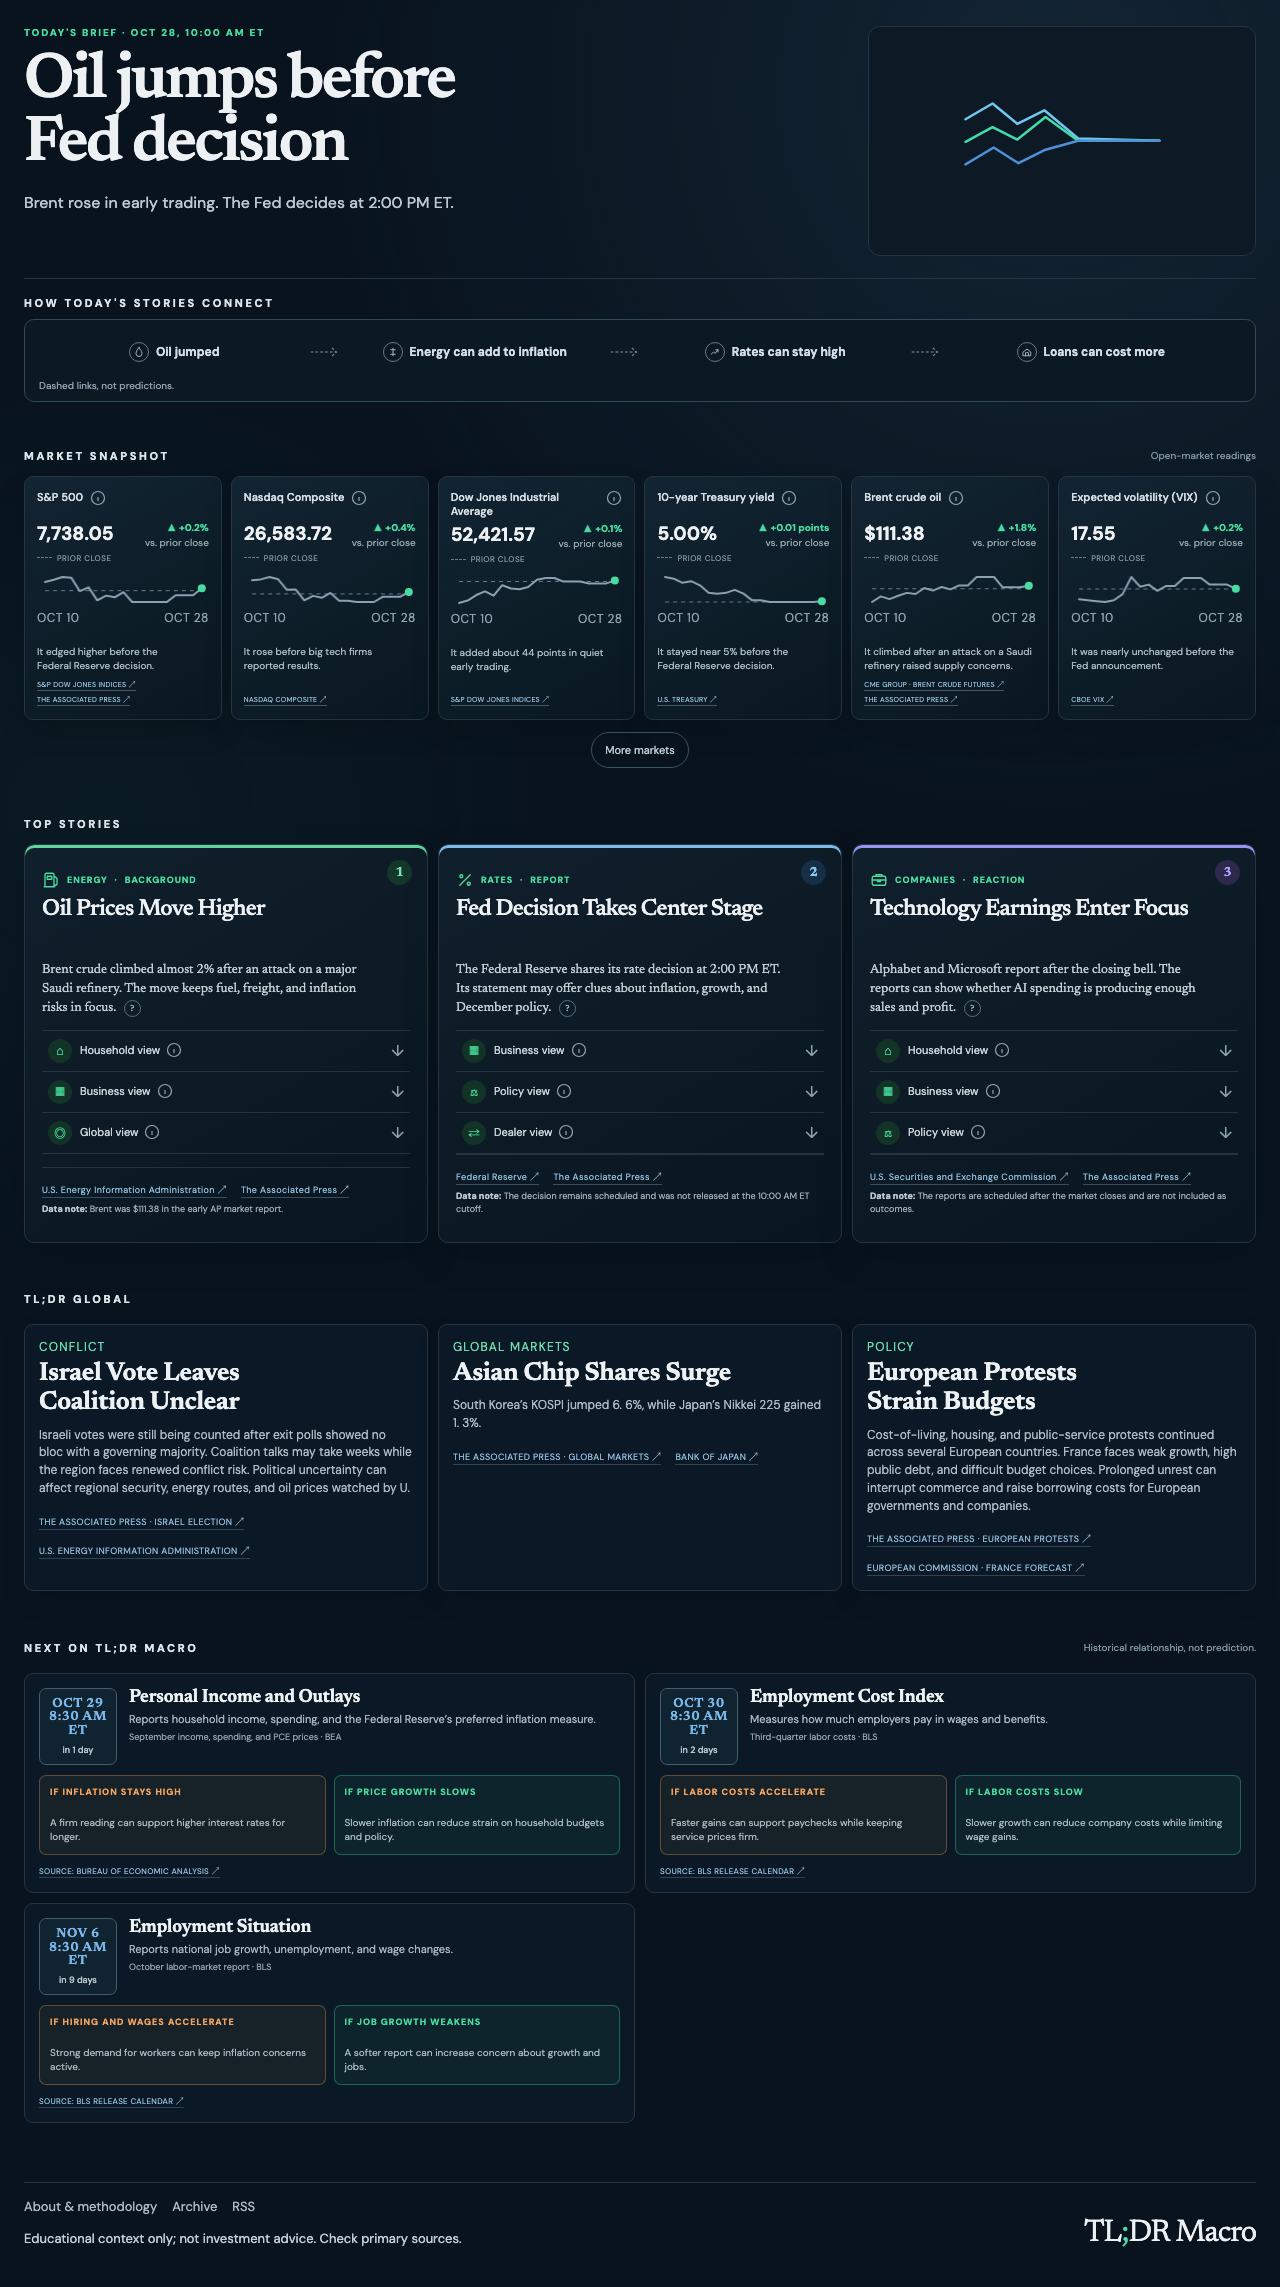
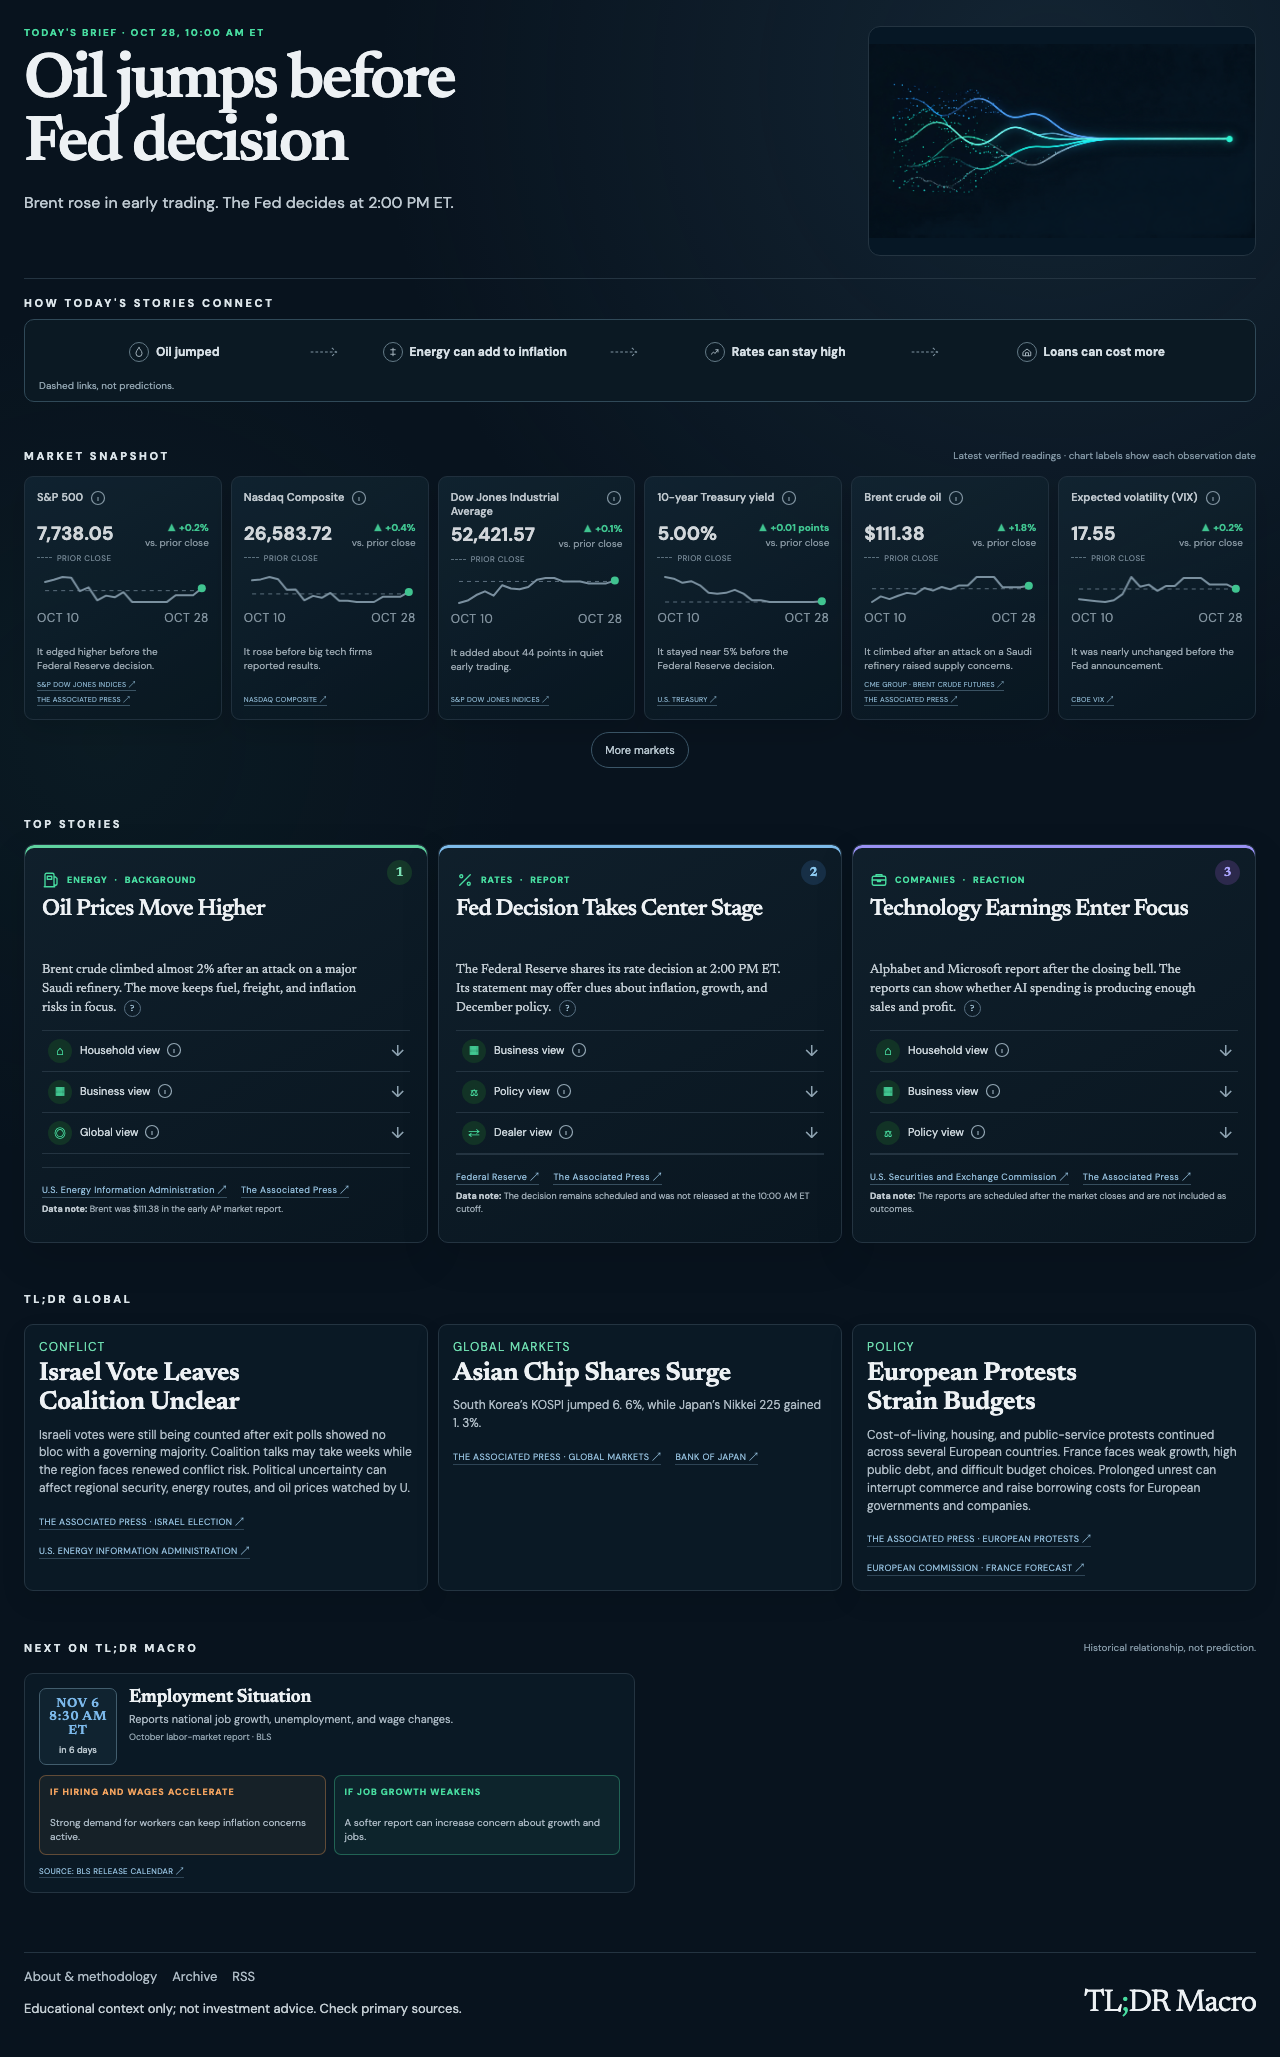
Use convergence artwork in hero

diff --git a/app/HeroVisual.tsx b/app/HeroVisual.tsx
@@ -1,10 +1,10 @@
 "use client";
 import {useState,useSyncExternalStore} from "react";
 
-type Choice="chart"|"mark"|"logo"|"none";
+type Choice="image"|"chart"|"mark"|"logo"|"none";
 type HeroMarket={name:string;kind?:string;value:number;display_value:string;prior_close:number;change_percent:number;display_change:string;points:number[];series_dates:string[];fetched_at:string};
 type HeroModel={requested:string;rendered:string;lead:HeroMarket;gate:{passed:boolean;reasons:string[];points:number[];dates:string[]};edition_date:string};
-const valid=(value:string|null):value is Choice=>["chart","mark","logo","none"].includes(value||"");
+const valid=(value:string|null):value is Choice=>["image","chart","mark","logo","none"].includes(value||"");
 const fmtDate=(value:string)=>new Intl.DateTimeFormat("en-US",{month:"short",day:"numeric",timeZone:"America/New_York"}).format(new Date(value));
 const Mark=()=> <svg className="hero-mark" viewBox="0 0 180 74" role="img" aria-label="TL;DR Macro converging-lines mark"><path className="hero-mark-sky" d="M4 18 28 4l22 18 24-12 30 25 72 2"/><path className="hero-mark-mint" d="M4 38 28 25l22 11 25-20 29 21 72 0"/><path className="hero-mark-blue" d="M4 58 29 43l22 14 24-12 29-8 72 0"/></svg>;
 
@@ -21,5 +21,5 @@ function Chart({model}:{model:HeroModel}){
 export default function HeroVisual({model}:{model:HeroModel}){
   const choice=useSyncExternalStore(()=>()=>{},()=>{const value=new URLSearchParams(window.location.search).get("heroVisual");return valid(value)?value:model.requested as Choice},()=>model.requested as Choice),rendered=choice==="chart"?(model.gate.passed?"chart":"mark"):choice;
   if(rendered==="none")return null;
-  return <div className="brief-visual" data-requested-visual={choice} data-rendered-visual={rendered}>{rendered==="chart"?<Chart model={model}/>:rendered==="logo"?<img src="./tldr-macro-logo-wide.png" alt="TL;DR Macro. Market intelligence, for everyone." width="2172" height="724"/>:<Mark/>}</div>;
+  return <div className="brief-visual" data-requested-visual={choice} data-rendered-visual={rendered}>{rendered==="chart"?<Chart model={model}/>:rendered==="image"?<img className="hero-art" src="./waves-converging-into-light.png" alt="Blue and mint market waves converging into a single line of light." width="1774" height="887" fetchPriority="high"/>:rendered==="logo"?<img src="./tldr-macro-logo-wide.png" alt="TL;DR Macro. Market intelligence, for everyone." width="2172" height="724"/>:<Mark/>}</div>;
 }

diff --git a/app/globals.css b/app/globals.css
@@ -519,6 +519,7 @@ body {
 .daily-brief .summary-why { max-width:740px; margin-top:14px; font-size:clamp(14px,1.25vw,17px); line-height:1.52; }
 .brief-visual { aspect-ratio:5/3; width:100%; max-height:230px; min-width:0; display:grid; place-items:center; overflow:hidden; padding:24px; border:1px solid var(--line); border-radius:12px; background:var(--panel); }
 .brief-visual>img { display:block; width:100%; max-width:100%; height:auto; object-fit:contain; }
+.brief-visual[data-rendered-visual="image"]{padding:0;background:#061725}.brief-visual .hero-art{width:100%;height:100%;max-width:none;object-fit:contain;border-radius:inherit}
 .hero-mark{width:60%;height:auto;fill:none;stroke:#7e95a4;stroke-width:2;stroke-linecap:round;stroke-linejoin:round}.hero-chart{position:relative;width:100%;height:100%;min-height:0}.hero-chart>svg{width:100%;height:100%;overflow:visible}.hero-chart-readout{position:absolute;z-index:1;top:0;left:0;display:grid;grid-template-columns:auto auto;align-items:end;gap:0 10px}.hero-chart-readout span{grid-column:1/-1;color:#9fb0bb;font-size:10px}.hero-chart-readout strong{color:var(--ink);font-family:var(--font-serif),serif;font-size:25px;line-height:1}.hero-chart-readout b{font-size:10px}.hero-chart-readout b[data-direction="up"],.hero-final[data-direction="up"]{color:var(--green);fill:var(--green)}.hero-chart-readout b[data-direction="down"],.hero-final[data-direction="down"]{color:#f28b82;fill:#f28b82}.hero-chart-readout b[data-direction="flat"],.hero-final[data-direction="flat"]{color:#a7b6bf;fill:#a7b6bf}.hero-grid{fill:none;stroke:var(--line);stroke-width:1;opacity:.55}.hero-prior{fill:none;stroke:#8499a6;stroke-width:1;stroke-dasharray:5 4}.hero-prior-label,.hero-axis-label{fill:#9fb0bb;font:12px var(--font-sans),sans-serif}.hero-series{fill:none;stroke:#b4c4ce;stroke-width:2.5;stroke-linecap:round;stroke-linejoin:round}.hero-focus-point{fill:transparent;stroke:transparent;cursor:crosshair}.hero-focus-point:focus{stroke:#7cb9eb;stroke-width:2;outline:none}.hero-tip rect{fill:#10222f;stroke:#526b7a}.hero-tip text{fill:#dbe4e9;font:10px var(--font-sans),sans-serif}.hero-chart>p{position:absolute;left:0;bottom:0;margin:0;color:#9fb0bb;font-size:10px}@media (prefers-reduced-motion:reduce){.hero-chart *{animation:none!important;transition:none!important}}
 .hero-mark{stroke-width:2.2}.hero-mark-sky{stroke:#72c7ef}.hero-mark-mint{stroke:#43dca8}.hero-mark-blue{stroke:#4f91d8}
 .reader-tools { padding:7px 0; }

diff --git a/DESIGN_REQUESTS.md b/DESIGN_REQUESTS.md
@@ -1,5 +1,9 @@
 # Design requests
 
+## 2026-10-28 — Supplied convergence artwork hero
+
+Approved by the user in chat with the finished “Waves Converging Into Light” artwork. Use the supplied image as the top-right hero visual, preserve the full convergence point with a contained crop at every breakpoint, and reuse it in the dated share image. Keep all other page bands, copy, evidence gates, and interactions unchanged.
+
 ## 2026-10-28 — Brand-color hero mark
 
 Approved by the user in chat. Keep the compact converging-lines fallback rather than restoring the duplicated full lockup, but bring it closer to the original logo by assigning its three paths the established sky-blue, mint, and deeper-blue brand colors. Apply the same mark treatment to the dated share image and preserve all existing data gates, sizing, accessibility, and no-effects constraints.

diff --git a/DATA_REPORT.md b/DATA_REPORT.md
@@ -1,6 +1,6 @@
 # Data Report
 
-Generated: 2026-10-28T18:06:25.772Z
+Generated: 2026-10-31T20:14:05.821Z
 
 | Instrument | Provider | Series | Frequency | Latest timestamp | Baseline | Chart points | Status |
 |---|---|---|---|---|---|---:|---|

diff --git a/VERIFY_REPORT.md b/VERIFY_REPORT.md
@@ -1,6 +1,6 @@
 # Verification report
 
-Generated: 2026-10-28T18:06:22.271Z
+Generated: 2026-10-31T20:13:31.662Z
 Edition: 2026-10-28
 Status: PASSED
 
